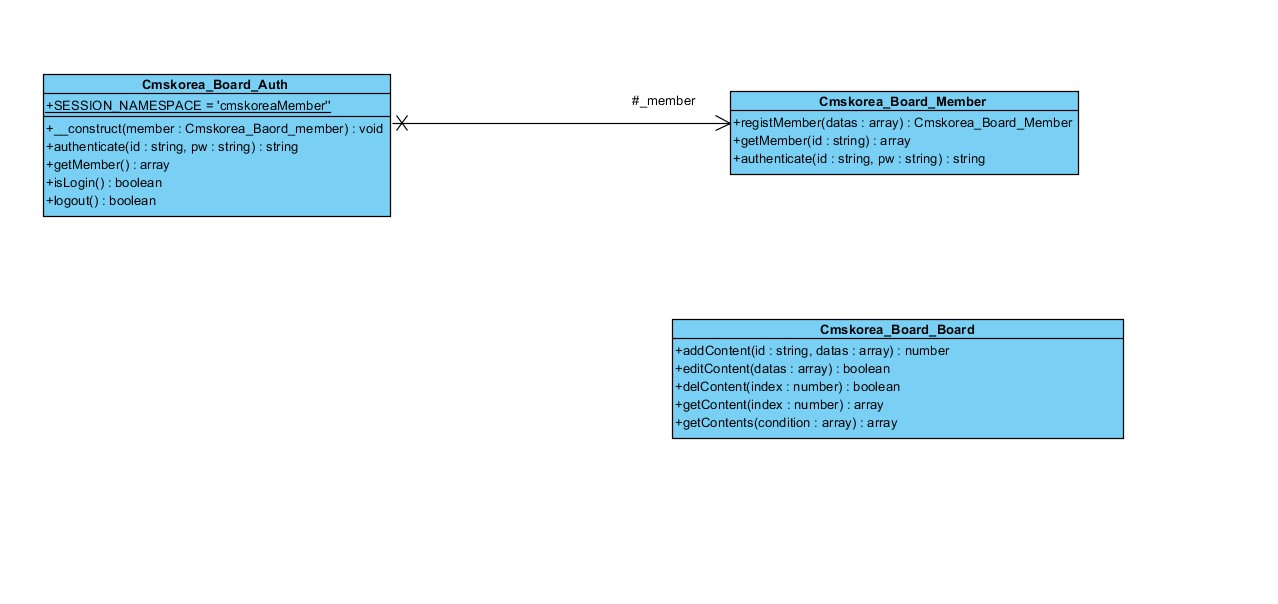
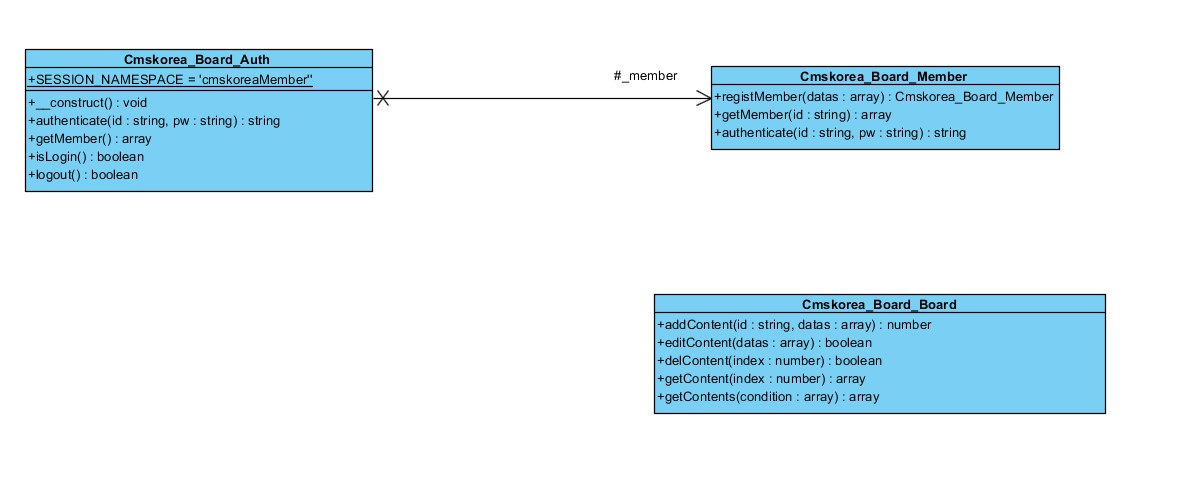
Basic Structural Operations
Update Auth Class, Other files...

Changed region(s): [[0.0, 0.0911, 0.9145, 0.3947], [0.5182, 0.5162, 0.945, 0.8502]]

diff --git a/library/Cmskorea/Board/Auth.php b/library/Cmskorea/Board/Auth.php
@@ -6,6 +6,10 @@
  * @package  Board
  */
 /**
+ * @see Cmskorea_Baord_Member
+ */
+require_once 'member.php';
+/**
  * 씨엠에스코리아 사용자 인증 클래스
  *
  * @category Cmskorea
@@ -27,13 +31,11 @@ class Cmskorea_Board_Auth {
 
     /**
      * 생성자
-     * @param null|Cmskorea_Baord_Member null 또는 Cmskorea_Baord_Member 객체
+     *
      * @return void
      */
-    public function __construct($member = null) {
-        if (is_a($member, 'Cmskorea_Baord_Member')) {
-            $this->_member = $member;
-        }
+    public function __construct() {
+        $this->_member = new Cmskorea_Baord_Member();
     }
 
     /**
@@ -46,7 +48,7 @@ class Cmskorea_Board_Auth {
      */
     public function authenticate($id, $pw) {
         // Cmskorea_Baord_Member 로 위임
-        $authResult = $this->getMember()->authenticate($id, $pw);
+        $authResult = $this->_member->authenticate($id, $pw);
 
         // 로그인 성공 시 세션에 회원정보를 저장한다.
         $memberInfo = $this->_member->getMember($id);

diff --git a/README.md b/README.md
@@ -3,6 +3,7 @@
 
 ### 화면 및 기능에 관련 파일들은 .php 파일로 구성한다.
 ### index.php 를 사용한다. url 입력 시 index.php 파일로 연결한다. 예) http://localhost/cmskorea_board -> index.php
+### index.php 파일에서는 로그인이 안되어 있는 경우 로그인 페이지로, 로그인이 되어 있는 경우 리스트 페이지로 자동 이동 시킨다.
 ### class 파일의 메서드는 필요에 의해 확장가능함.
 
 
